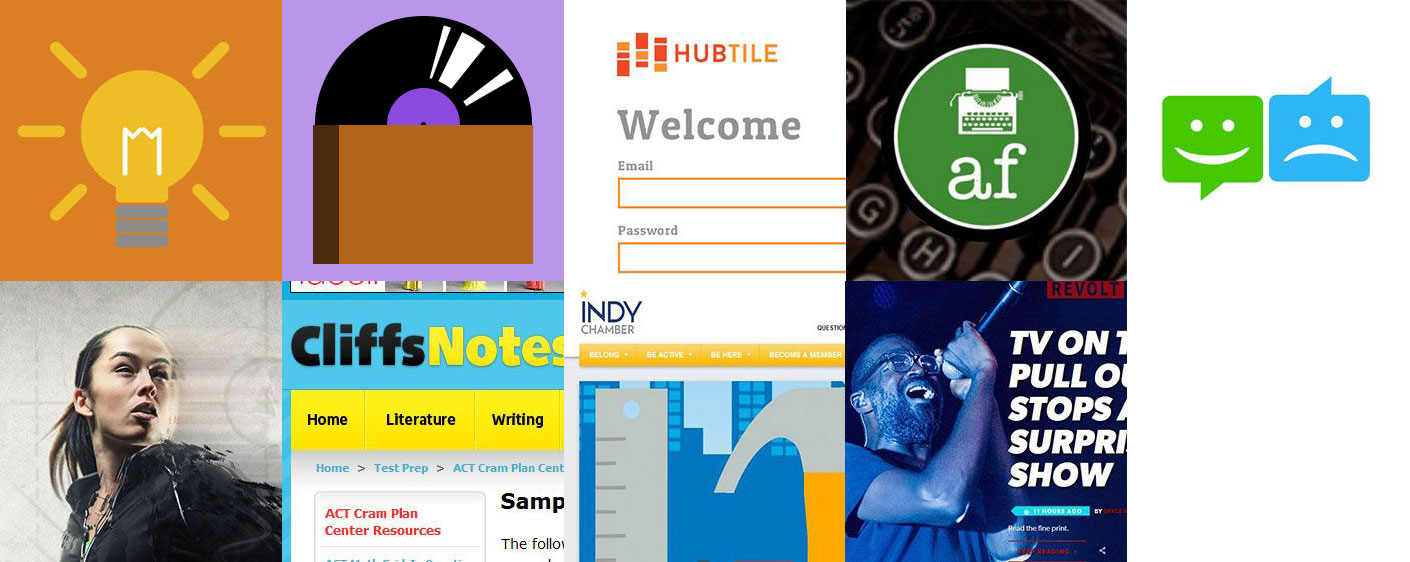
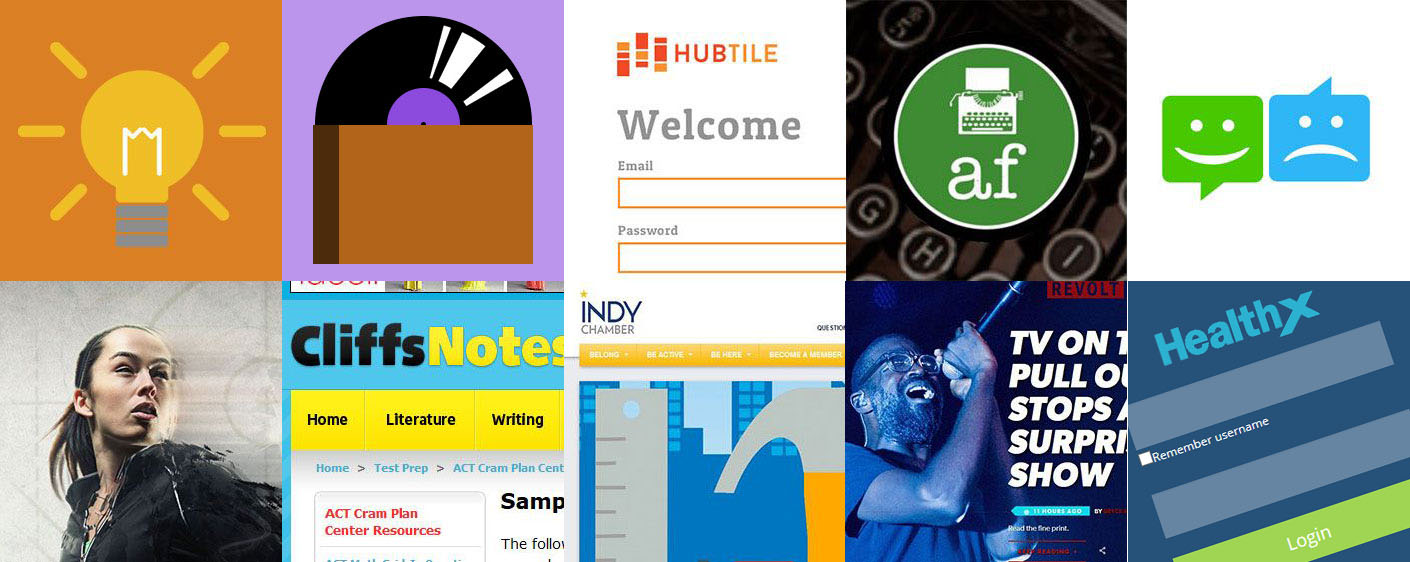
Added healthx prototype to code section

Changed region(s): [[0.7801, 0.484, 1.0, 1.0]]

diff --git a/public/stylesheets/code.css b/public/stylesheets/code.css
@@ -1,1 +1,1 @@
[2 lines of base64/hex data omitted]

diff --git a/public/stylesheets/code.less b/public/stylesheets/code.less
@@ -24,6 +24,11 @@
         background-color: @green * 2;
     }
 
+    .healthx {
+        background: url('../assets/images/sites.jpg') no-repeat -540px -135px;
+        background-size: 675px;
+    }
+
     .the-lawrence-moore {
         background: url('../assets/images/sites.jpg') no-repeat -3px 0;
         background-size: 675px;
